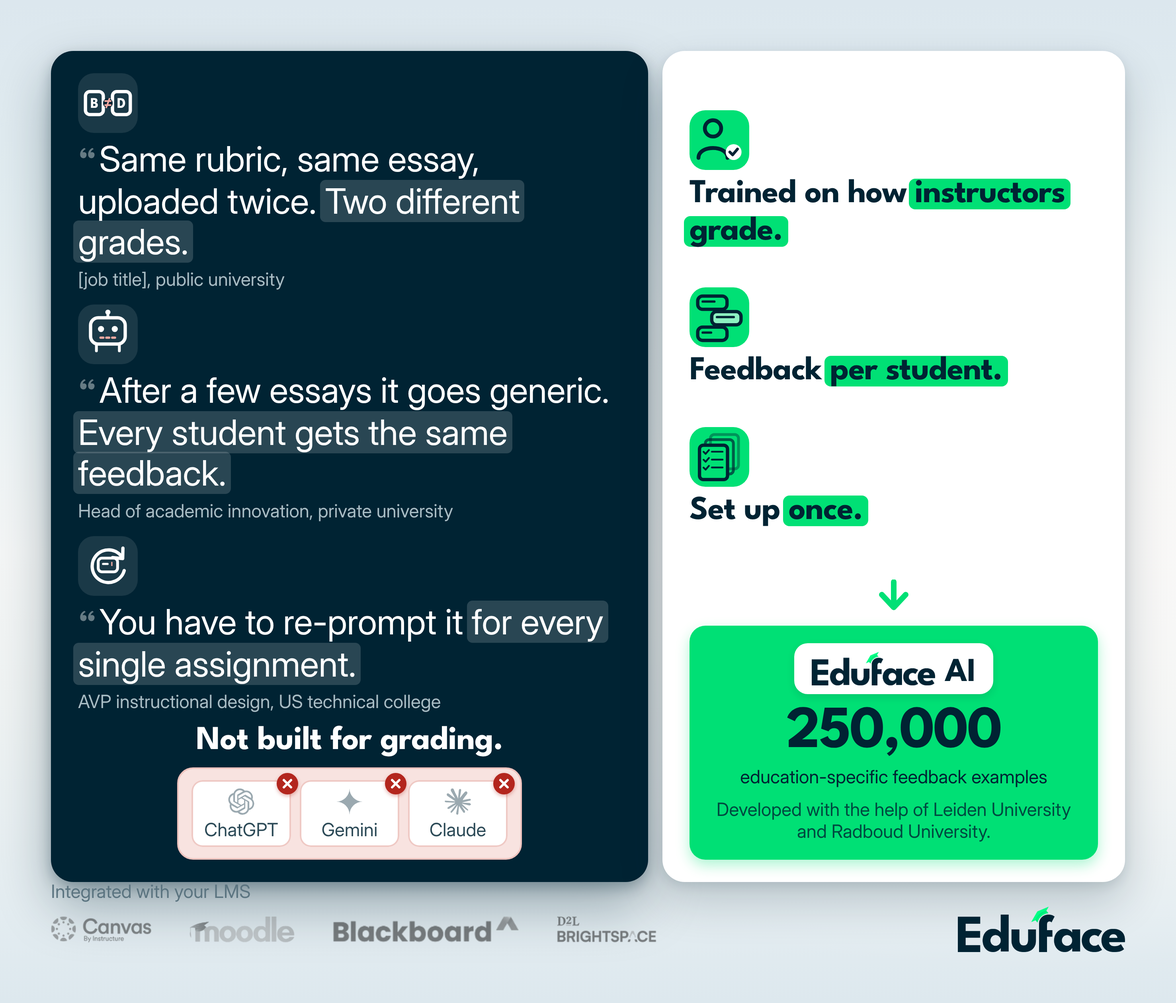
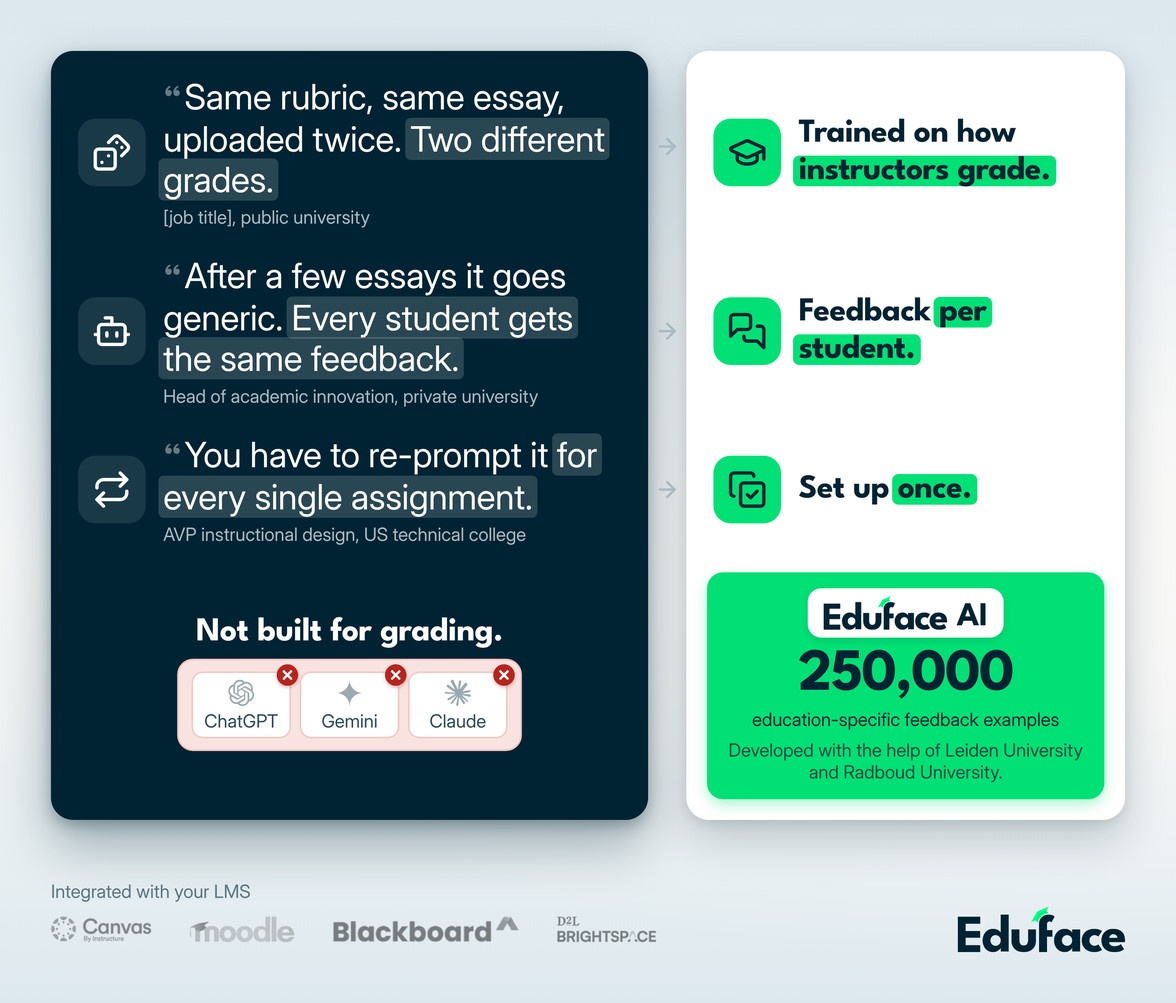
Backwall: rijen per paar (probleem links, oplossing rechts) met Lucide-iconen
Claude-Session: https://claude.ai/code/session_011t24oRcD5DFuXzKigdVhtb

diff --git a/creatives/beurs-backwall/backwall.html b/creatives/beurs-backwall/backwall.html
@@ -3,9 +3,10 @@
 <head>
 <meta charset="utf-8">
 <title>Beurs backwall</title>
+<script src="assets/icons/icons.js"></script>
 <style>
   /* Canvas: 1 px = 1 mm. Wand 2954 x 2520 mm. De kop staat op de gevel (facade.html).
-     Links donker (het probleem), rechts wit met veel groen (de oplossing).
+     Per rij een paar: links het probleem (donker), rechts de oplossing (wit, groen). Iconen: Lucide (ISC), niet zelf getekend.
      Lettersysteem: L 88 Inter (quotes) / M 84 League Spartan (koppen) / S 46 Inter (bronnen, labels) / XL 150 Spartan (alleen het getal). */
   @font-face { font-family: "League Spartan"; font-weight: 700; src: url("../../Design/Merk/fonts/LeagueSpartan-Bold.ttf"); }
   @font-face { font-family: "Inter"; font-weight: 400; src: url("../../Design/Merk/fonts/Inter-Regular.ttf"); }
@@ -19,42 +20,47 @@
       linear-gradient(180deg, #dce7ee 0%, #e2edf1 20%, #ecf3f5 40%, #f4f6f6 55%, #eff3f3 70%, #e4edf1 90%, #dde8ee 100%);
   }
   .logo { position: absolute; right: 128px; bottom: 128px; width: 420px; height: auto; }
-  .row { position: absolute; left: 128px; top: 128px; width: 2698px; display: flex; gap: 36px; align-items: stretch; }
 
-  /* links: donker. Icoon boven, quote eronder, precies zoals rechts. */
-  .q { width: 1500px; background: var(--navy); color: #fff; border-radius: 56px; padding: 56px 68px; display: flex; flex-direction: column; justify-content: space-between; gap: 30px;
-       box-shadow: 0 14px 34px rgba(0,35,51,.28), 0 60px 130px rgba(0,35,51,.34); }
-  .qs { display: flex; flex-direction: column; gap: 36px; }
-  .it { width: 150px; height: 150px; border-radius: 40px; display: flex; align-items: center; justify-content: center; margin-bottom: 14px; }
-  .q .it { background: rgba(255,255,255,.1); }
+  .g { position: absolute; left: 128px; top: 128px; width: 2698px; display: grid; grid-template-columns: 1500px 96px 1102px; grid-template-rows: auto auto auto auto; }
+  .pl, .pr { grid-row: 1 / 5; border-radius: 56px; }
+  .pl { grid-column: 1; background: var(--navy); box-shadow: 0 14px 34px rgba(0,35,51,.28), 0 60px 130px rgba(0,35,51,.34); }
+  .pr { grid-column: 3; background: #fff; box-shadow: 0 10px 28px rgba(0,35,51,.10), 0 50px 110px rgba(0,35,51,.20); }
+  .cl, .cr, .cm { z-index: 1; display: flex; align-items: center; }
+  .cl { grid-column: 1; padding: 34px 68px; gap: 44px; color: #fff; }
+  .cr { grid-column: 3; padding: 34px 68px; gap: 44px; }
+  .cm { grid-column: 2; justify-content: center; }
+  .r1 { grid-row: 1; } .r2 { grid-row: 2; } .r3 { grid-row: 3; } .r4 { grid-row: 4; }
+  .r1.cl, .r1.cr { padding-top: 64px; }
+
+  .it { flex: none; width: 170px; height: 170px; border-radius: 44px; display: flex; align-items: center; justify-content: center; }
+  .it svg { width: 100px; height: 100px; fill: none; stroke-width: 2; stroke-linecap: round; stroke-linejoin: round; }
+  .cl .it { background: rgba(255,255,255,.1); } .cl .it svg { stroke: #fff; }
+  .cr .it { background: var(--g); } .cr .it svg { stroke: var(--navy); }
+  .cm svg { width: 64px; height: 64px; fill: none; stroke: var(--i3); stroke-width: 2.4; stroke-linecap: round; stroke-linejoin: round; }
+
   .qt { font: 400 88px/1.16 Inter; color: #fff; letter-spacing: -.005em; }
   .qt .qm { font: 700 88px/1 "League Spartan"; color: rgba(255,255,255,.4); margin-right: 8px; }
   .qt mark { background: rgba(255,255,255,.16); color: inherit; padding: 0 12px; margin: 0 -12px; border-radius: 14px; -webkit-box-decoration-break: clone; box-decoration-break: clone; }
   .who { font: 400 46px/1.2 Inter; color: var(--i3); margin-top: 16px; }
+  .eh { font: 700 84px/1.12 "League Spartan"; letter-spacing: -.015em; color: var(--navy); }
+  .eh span { background: var(--g); padding: 0 14px; margin: 0 -14px; border-radius: 16px; -webkit-box-decoration-break: clone; box-decoration-break: clone; }
 
-  .tools { text-align: center; }
+  /* onderste rij: links de tools, rechts Eduface AI */
+  .cl.r4 { justify-content: center; text-align: center; padding-bottom: 64px; }
   .tools .lab { font: 700 84px/1 "League Spartan"; letter-spacing: -.01em; color: #fff; margin-bottom: 24px; }
   .redbox { display: inline-flex; gap: 22px; background: #f8e3e0; border: 4px solid #eec3be; border-radius: 40px; padding: 28px 32px; }
   .tl { position: relative; width: 250px; height: 168px; border-radius: 28px; background: #fff; box-shadow: inset 0 0 0 4px #efc9c4;
         display: flex; flex-direction: column; align-items: center; justify-content: center; gap: 14px; font: 400 46px/1 Inter; color: var(--i7); }
   .tl img { width: 66px; height: 66px; opacity: .85; }
   .x { position: absolute; top: -18px; right: -18px; width: 54px; height: 54px; border-radius: 50%; background: var(--red); box-shadow: 0 4px 10px rgba(179,38,30,.35); }
-
-  /* rechts: wit, veel groen. */
-  .e { width: 1162px; background: #fff; color: var(--navy); border-radius: 56px; padding: 56px 68px; display: flex; flex-direction: column; gap: 32px;
-       box-shadow: 0 10px 28px rgba(0,35,51,.10), 0 50px 110px rgba(0,35,51,.20); }
-  .es { flex: 1; display: flex; flex-direction: column; justify-content: space-evenly; }
-  .e .it { background: var(--g); }
-  .eh { font: 700 84px/1.12 "League Spartan"; letter-spacing: -.015em; }
-  .eh span { background: var(--g); padding: 0 14px; margin: 0 -14px; border-radius: 16px; -webkit-box-decoration-break: clone; box-decoration-break: clone; }
-  .arrow { align-self: center; }
-  .own { margin-top: auto; border-radius: 40px; background: var(--g); padding: 44px 52px; text-align: center; box-shadow: 0 14px 34px rgba(0,224,117,.32); }
-  .own .top { display: inline-flex; align-items: flex-end; justify-content: center; gap: 24px; background: #fff; border-radius: 34px; padding: 22px 44px 22px; box-shadow: 0 8px 20px rgba(0,35,51,.12); }
+  .cr.r4 { padding: 34px 52px 52px; }
+  .own { width: 100%; border-radius: 40px; background: var(--g); padding: 40px 44px; text-align: center; box-shadow: 0 14px 34px rgba(0,224,117,.32); }
+  .own .top { display: inline-flex; align-items: flex-end; justify-content: center; gap: 24px; background: #fff; border-radius: 34px; padding: 20px 40px; box-shadow: 0 8px 20px rgba(0,35,51,.12); }
   .own .top img { height: 84px; width: auto; }
-  .own .top .ai { font: 700 84px/.74 "League Spartan"; color: var(--navy); letter-spacing: -.01em; padding-bottom: 0; }
-  .own .n { font: 700 150px/1 "League Spartan"; letter-spacing: -.025em; margin-top: 22px; color: var(--navy); }
+  .own .top .ai { font: 700 84px/.74 "League Spartan"; color: var(--navy); letter-spacing: -.01em; }
+  .own .n { font: 700 150px/1 "League Spartan"; letter-spacing: -.025em; margin-top: 20px; color: var(--navy); }
   .own .l { font: 400 46px/1.2 Inter; color: var(--navy); margin-top: 8px; }
-  .own .d { font: 400 46px/1.2 Inter; color: rgba(0,35,51,.8); margin-top: 26px; }
+  .own .d { font: 400 46px/1.2 Inter; color: rgba(0,35,51,.8); margin-top: 22px; }
 
   .lms { position: absolute; left: 128px; top: 2278px; height: 114px; display: flex; align-items: center; gap: 96px; }
   .lms img { height: 66px; width: auto; filter: grayscale(1) contrast(.9); opacity: .5; }
@@ -68,49 +74,30 @@
   </div>
 
 <script>
-const N='#002333', G='#00e075', W='#fff', PINK='#f1a9a1';
+const ic=(n)=>`<svg viewBox="0 0 24 24">${ICONS[n]}</svg>`;
 const L=(f)=>`assets/logos/${f}.svg`;
-const sv=(inner,s=128)=>`<svg width="${s}" height="${s}" viewBox="0 0 400 400">${inner}</svg>`;
-
-/* ---- iconen links (wit op donker, lichtrode accenten): het probleem ---- */
-// 1. twee verschillende cijfers voor dezelfde opdracht
-const icGrades=sv(`<rect x="24" y="110" width="140" height="180" rx="34" fill="none" stroke="${W}" stroke-width="26"/><text x="94" y="236" text-anchor="middle" font-family="League Spartan" font-weight="700" font-size="116" fill="${W}">B</text>
-  <rect x="236" y="110" width="140" height="180" rx="34" fill="none" stroke="${W}" stroke-width="26"/><text x="306" y="236" text-anchor="middle" font-family="League Spartan" font-weight="700" font-size="116" fill="${W}">D</text>
-  <circle cx="200" cy="200" r="38" fill="${N}"/><path d="M178,184 H222 M178,216 H222" stroke="${PINK}" stroke-width="13" stroke-linecap="round"/><path d="M212,166 L188,234" stroke="${PINK}" stroke-width="13" stroke-linecap="round"/>`);
-// 2. robot: generiek, dezelfde feedback
-const icRobot=sv(`<line x1="200" y1="20" x2="200" y2="70" stroke="${W}" stroke-width="22" stroke-linecap="round"/><circle cx="200" cy="26" r="20" fill="${W}"/>
-  <rect x="64" y="70" width="272" height="206" rx="60" fill="none" stroke="${W}" stroke-width="26"/><circle cx="146" cy="158" r="24" fill="${W}"/><circle cx="254" cy="158" r="24" fill="${W}"/><path d="M142,226 H258" stroke="${PINK}" stroke-width="18" stroke-linecap="round" stroke-dasharray="22 24"/>
-  <path d="M110,276 V330 M290,276 V330" stroke="${W}" stroke-width="22" stroke-linecap="round"/>`);
-// 3. elke keer opnieuw promoten
-const icRepeat=sv(`<path d="M312,132 A128,128 0 1 0 328,236" fill="none" stroke="${W}" stroke-width="26" stroke-linecap="round"/><polyline points="318,60 316,142 236,134" fill="none" stroke="${W}" stroke-width="26" stroke-linecap="round" stroke-linejoin="round"/>
-  <rect x="124" y="138" width="152" height="108" rx="30" fill="none" stroke="${W}" stroke-width="22"/><rect x="154" y="176" width="52" height="16" rx="8" fill="${W}"/><rect x="226" y="168" width="10" height="32" fill="${PINK}"/>`);
-
-/* ---- iconen rechts (navy op groen): de oplossing ---- */
-const icTeacher=sv(`<circle cx="150" cy="108" r="64" fill="none" stroke="${N}" stroke-width="30"/><path d="M36,340 C36,236 264,236 264,340" fill="none" stroke="${N}" stroke-width="30" stroke-linecap="round"/><circle cx="312" cy="294" r="62" fill="${W}"/><polyline points="282,294 304,316 342,270" fill="none" stroke="${N}" stroke-width="22" stroke-linecap="round" stroke-linejoin="round"/>`);
-const icBubbles=sv(`<rect x="30" y="34" width="230" height="104" rx="38" fill="none" stroke="${N}" stroke-width="26"/><rect x="60" y="68" width="110" height="18" rx="9" fill="${N}"/><rect x="140" y="156" width="230" height="104" rx="38" fill="rgba(255,255,255,.55)" stroke="${N}" stroke-width="26"/><rect x="172" y="190" width="150" height="18" rx="9" fill="${N}"/><rect x="30" y="278" width="230" height="104" rx="38" fill="none" stroke="${N}" stroke-width="26"/><rect x="60" y="312" width="84" height="18" rx="9" fill="${N}"/>`);
-const icSheets=sv(`<rect x="130" y="24" width="220" height="270" rx="30" fill="none" stroke="${N}" stroke-width="22" opacity=".4"/><rect x="90" y="64" width="220" height="270" rx="30" fill="none" stroke="${N}" stroke-width="22" opacity=".7"/><rect x="44" y="108" width="220" height="270" rx="30" fill="${G}" stroke="${N}" stroke-width="26"/>${[160,222,284].map(y=>`<polyline points="76,${y} 92,${y+16} 118,${y-14}" fill="none" stroke="${N}" stroke-width="14" stroke-linecap="round" stroke-linejoin="round"/><rect x="134" y="${y-8}" width="98" height="14" rx="7" fill="${N}"/>`).join('')}`);
-
-/* ---- links ---- */
-const q=(ic,t,w)=>`<div class="qb"><div class="it">${ic}</div><div class="qt"><span class="qm">“</span>${t}</div>${w?`<div class="who">${w}</div>`:''}</div>`;
 const R0='[job title], public university', R1='Head of academic innovation, private university', R2='AVP instructional design, US technical college';
+/* Quotes: formulering van Dante, 25-11-2026. Bron van quote 2 en 3 staat in de case study; herschreven zinnen nog niet aan die personen voorgelegd (V15). Quote 1: functietitel onbekend (V17). */
+const Q=[{ic:'dices',t:'Same rubric, same essay, uploaded twice. <mark>Two different grades.</mark>',w:R0},
+         {ic:'bot',t:'After a few essays it goes generic. <mark>Every student gets the same feedback.</mark>',w:R1},
+         {ic:'repeat',t:'You have to re-prompt it <mark>for every single assignment.</mark>',w:R2}];
+const A=[{ic:'graduation-cap',h:'Trained on how <span>instructors grade.</span>'},
+         {ic:'messages-square',h:'Feedback <span>per student.</span>'},
+         {ic:'copy-check',h:'Set up <span>once.</span>'}];
+let h='<div class="pl"></div><div class="pr"></div>';
+Q.forEach((q,i)=>{
+  h+=`<div class="cl r${i+1}"><div class="it">${ic(q.ic)}</div><div><div class="qt"><span class="qm">“</span>${q.t}</div><div class="who">${q.w}</div></div></div>`;
+  h+=`<div class="cm r${i+1}">${ic('arrow-right')}</div>`;
+  h+=`<div class="cr r${i+1}"><div class="it">${ic(A[i].ic)}</div><div class="eh">${A[i].h}</div></div>`;
+});
 const x=`<div class="x"><svg width="54" height="54" viewBox="0 0 54 54"><path d="M18,18 L36,36 M36,18 L18,36" stroke="#fff" stroke-width="6" stroke-linecap="round"/></svg></div>`;
 const tool=(img,name)=>`<div class="tl"><img src="${L(img)}">${name}${x}</div>`;
-const left=`<div class="q"><div class="qs">`+
-  q(icGrades,'Same rubric, same essay, uploaded twice. <mark>Two different grades.</mark>',R0)+
-  q(icRobot,'After a few essays it goes generic. <mark>Every student gets the same feedback.</mark>',R1)+
-  q(icRepeat,'You have to re-prompt it <mark>for every single assignment.</mark>',R2)+
-  `</div><div class="tools"><div class="lab">Not built for grading.</div><div class="redbox">${tool('openai','ChatGPT')}${tool('googlegemini','Gemini')}${tool('claude','Claude')}</div></div></div>`;
-
-/* ---- rechts ---- */
-const EB=[{ic:icTeacher,h:'Trained on how <span>instructors grade.</span>'},{ic:icBubbles,h:'Feedback <span>per student.</span>'},{ic:icSheets,h:'Set up <span>once.</span>'}];
-const arrow=`<svg class="arrow" width="96" height="84" viewBox="0 0 96 84"><path d="M48,6 V62" stroke="${G}" stroke-width="14" stroke-linecap="round"/><polyline points="18,38 48,70 78,38" fill="none" stroke="${G}" stroke-width="14" stroke-linecap="round" stroke-linejoin="round"/></svg>`;
-const right=`<div class="e"><div class="es">`+EB.map(r=>`<div class="eb"><div class="it">${r.ic}</div><div class="eh">${r.h}</div></div>`).join('')+`</div>${arrow}
-  <div class="own"><div class="top"><img src="../../Design/Merk/logos/logo_navy.png"><div class="ai">AI</div></div>
+h+=`<div class="cl r4"><div class="tools"><div class="lab">Not built for grading.</div><div class="redbox">${tool('openai','ChatGPT')}${tool('googlegemini','Gemini')}${tool('claude','Claude')}</div></div></div>`;
+h+=`<div class="cr r4"><div class="own"><div class="top"><img src="../../Design/Merk/logos/logo_navy.png"><div class="ai">AI</div></div>
   <div class="n">250,000</div><div class="l">education-specific feedback examples</div>
   <div class="d">Developed with the help of Leiden University and Radboud University.</div></div></div>`;
-
 const lms=`<div class="lms"><div class="lab">Integrated with your LMS</div><img src="assets/logos/lms-canvas.png"><img src="assets/logos/lms-moodle.png"><img src="assets/logos/lms-blackboard.png"><img src="assets/logos/lms-brightspace.png"></div>`;
-document.getElementById('layer-content').innerHTML = `<div class="row">${left}${right}</div>${lms}`;
+document.getElementById('layer-content').innerHTML=`<div class="g">${h}</div>${lms}`;
 </script>
 </body>
 </html>

diff --git a/creatives/beurs-backwall/backwall-donker-links-2026-11-25.html b/creatives/beurs-backwall/backwall-donker-links-2026-11-25.html
@@ -1,0 +1,116 @@
+<!doctype html>
+<html lang="en">
+<head>
+<meta charset="utf-8">
+<title>Beurs backwall</title>
+<style>
+  /* Canvas: 1 px = 1 mm. Wand 2954 x 2520 mm. De kop staat op de gevel (facade.html).
+     Links donker (het probleem), rechts wit met veel groen (de oplossing).
+     Lettersysteem: L 88 Inter (quotes) / M 84 League Spartan (koppen) / S 46 Inter (bronnen, labels) / XL 150 Spartan (alleen het getal). */
+  @font-face { font-family: "League Spartan"; font-weight: 700; src: url("../../Design/Merk/fonts/LeagueSpartan-Bold.ttf"); }
+  @font-face { font-family: "Inter"; font-weight: 400; src: url("../../Design/Merk/fonts/Inter-Regular.ttf"); }
+  :root { --w: 2954px; --h: 2520px; --navy: #002333; --gd: #007b54; --g: #00e075; --i7: #2c4a57; --i5: #5b7480; --i3: #a9bcc4; --i2: #cdd9de; --i50: #f3f7f8; --red: #b3261e; }
+  * { margin: 0; box-sizing: border-box; }
+  html, body { width: var(--w); height: var(--h); }
+  .wall {
+    position: relative; width: var(--w); height: var(--h); overflow: hidden; color: var(--navy);
+    background:
+      radial-gradient(ellipse 80% 45% at 90% 52%, #f9f8f7 0%, rgba(249,248,247,0) 100%),
+      linear-gradient(180deg, #dce7ee 0%, #e2edf1 20%, #ecf3f5 40%, #f4f6f6 55%, #eff3f3 70%, #e4edf1 90%, #dde8ee 100%);
+  }
+  .logo { position: absolute; right: 128px; bottom: 128px; width: 420px; height: auto; }
+  .row { position: absolute; left: 128px; top: 128px; width: 2698px; display: flex; gap: 36px; align-items: stretch; }
+
+  /* links: donker. Icoon boven, quote eronder, precies zoals rechts. */
+  .q { width: 1500px; background: var(--navy); color: #fff; border-radius: 56px; padding: 56px 68px; display: flex; flex-direction: column; justify-content: space-between; gap: 30px;
+       box-shadow: 0 14px 34px rgba(0,35,51,.28), 0 60px 130px rgba(0,35,51,.34); }
+  .qs { display: flex; flex-direction: column; gap: 36px; }
+  .it { width: 150px; height: 150px; border-radius: 40px; display: flex; align-items: center; justify-content: center; margin-bottom: 14px; }
+  .q .it { background: rgba(255,255,255,.1); }
+  .qt { font: 400 88px/1.16 Inter; color: #fff; letter-spacing: -.005em; }
+  .qt .qm { font: 700 88px/1 "League Spartan"; color: rgba(255,255,255,.4); margin-right: 8px; }
+  .qt mark { background: rgba(255,255,255,.16); color: inherit; padding: 0 12px; margin: 0 -12px; border-radius: 14px; -webkit-box-decoration-break: clone; box-decoration-break: clone; }
+  .who { font: 400 46px/1.2 Inter; color: var(--i3); margin-top: 16px; }
+
+  .tools { text-align: center; }
+  .tools .lab { font: 700 84px/1 "League Spartan"; letter-spacing: -.01em; color: #fff; margin-bottom: 24px; }
+  .redbox { display: inline-flex; gap: 22px; background: #f8e3e0; border: 4px solid #eec3be; border-radius: 40px; padding: 28px 32px; }
+  .tl { position: relative; width: 250px; height: 168px; border-radius: 28px; background: #fff; box-shadow: inset 0 0 0 4px #efc9c4;
+        display: flex; flex-direction: column; align-items: center; justify-content: center; gap: 14px; font: 400 46px/1 Inter; color: var(--i7); }
+  .tl img { width: 66px; height: 66px; opacity: .85; }
+  .x { position: absolute; top: -18px; right: -18px; width: 54px; height: 54px; border-radius: 50%; background: var(--red); box-shadow: 0 4px 10px rgba(179,38,30,.35); }
+
+  /* rechts: wit, veel groen. */
+  .e { width: 1162px; background: #fff; color: var(--navy); border-radius: 56px; padding: 56px 68px; display: flex; flex-direction: column; gap: 32px;
+       box-shadow: 0 10px 28px rgba(0,35,51,.10), 0 50px 110px rgba(0,35,51,.20); }
+  .es { flex: 1; display: flex; flex-direction: column; justify-content: space-evenly; }
+  .e .it { background: var(--g); }
+  .eh { font: 700 84px/1.12 "League Spartan"; letter-spacing: -.015em; }
+  .eh span { background: var(--g); padding: 0 14px; margin: 0 -14px; border-radius: 16px; -webkit-box-decoration-break: clone; box-decoration-break: clone; }
+  .arrow { align-self: center; }
+  .own { margin-top: auto; border-radius: 40px; background: var(--g); padding: 44px 52px; text-align: center; box-shadow: 0 14px 34px rgba(0,224,117,.32); }
+  .own .top { display: inline-flex; align-items: flex-end; justify-content: center; gap: 24px; background: #fff; border-radius: 34px; padding: 22px 44px 22px; box-shadow: 0 8px 20px rgba(0,35,51,.12); }
+  .own .top img { height: 84px; width: auto; }
+  .own .top .ai { font: 700 84px/.74 "League Spartan"; color: var(--navy); letter-spacing: -.01em; padding-bottom: 0; }
+  .own .n { font: 700 150px/1 "League Spartan"; letter-spacing: -.025em; margin-top: 22px; color: var(--navy); }
+  .own .l { font: 400 46px/1.2 Inter; color: var(--navy); margin-top: 8px; }
+  .own .d { font: 400 46px/1.2 Inter; color: rgba(0,35,51,.8); margin-top: 26px; }
+
+  .lms { position: absolute; left: 128px; top: 2278px; height: 114px; display: flex; align-items: center; gap: 96px; }
+  .lms img { height: 66px; width: auto; filter: grayscale(1) contrast(.9); opacity: .5; }
+  .lms .lab { position: absolute; left: 0; top: -62px; font: 400 46px/1 Inter; color: var(--i5); white-space: nowrap; }
+</style>
+</head>
+<body>
+  <div class="wall" id="wall">
+    <div id="layer-content"></div>
+    <img class="logo" src="../../Design/Merk/logos/logo_navy.png" alt="Eduface">
+  </div>
+
+<script>
+const N='#002333', G='#00e075', W='#fff', PINK='#f1a9a1';
+const L=(f)=>`assets/logos/${f}.svg`;
+const sv=(inner,s=128)=>`<svg width="${s}" height="${s}" viewBox="0 0 400 400">${inner}</svg>`;
+
+/* ---- iconen links (wit op donker, lichtrode accenten): het probleem ---- */
+// 1. twee verschillende cijfers voor dezelfde opdracht
+const icGrades=sv(`<rect x="24" y="110" width="140" height="180" rx="34" fill="none" stroke="${W}" stroke-width="26"/><text x="94" y="236" text-anchor="middle" font-family="League Spartan" font-weight="700" font-size="116" fill="${W}">B</text>
+  <rect x="236" y="110" width="140" height="180" rx="34" fill="none" stroke="${W}" stroke-width="26"/><text x="306" y="236" text-anchor="middle" font-family="League Spartan" font-weight="700" font-size="116" fill="${W}">D</text>
+  <circle cx="200" cy="200" r="38" fill="${N}"/><path d="M178,184 H222 M178,216 H222" stroke="${PINK}" stroke-width="13" stroke-linecap="round"/><path d="M212,166 L188,234" stroke="${PINK}" stroke-width="13" stroke-linecap="round"/>`);
+// 2. robot: generiek, dezelfde feedback
+const icRobot=sv(`<line x1="200" y1="20" x2="200" y2="70" stroke="${W}" stroke-width="22" stroke-linecap="round"/><circle cx="200" cy="26" r="20" fill="${W}"/>
+  <rect x="64" y="70" width="272" height="206" rx="60" fill="none" stroke="${W}" stroke-width="26"/><circle cx="146" cy="158" r="24" fill="${W}"/><circle cx="254" cy="158" r="24" fill="${W}"/><path d="M142,226 H258" stroke="${PINK}" stroke-width="18" stroke-linecap="round" stroke-dasharray="22 24"/>
+  <path d="M110,276 V330 M290,276 V330" stroke="${W}" stroke-width="22" stroke-linecap="round"/>`);
+// 3. elke keer opnieuw promoten
+const icRepeat=sv(`<path d="M312,132 A128,128 0 1 0 328,236" fill="none" stroke="${W}" stroke-width="26" stroke-linecap="round"/><polyline points="318,60 316,142 236,134" fill="none" stroke="${W}" stroke-width="26" stroke-linecap="round" stroke-linejoin="round"/>
+  <rect x="124" y="138" width="152" height="108" rx="30" fill="none" stroke="${W}" stroke-width="22"/><rect x="154" y="176" width="52" height="16" rx="8" fill="${W}"/><rect x="226" y="168" width="10" height="32" fill="${PINK}"/>`);
+
+/* ---- iconen rechts (navy op groen): de oplossing ---- */
+const icTeacher=sv(`<circle cx="150" cy="108" r="64" fill="none" stroke="${N}" stroke-width="30"/><path d="M36,340 C36,236 264,236 264,340" fill="none" stroke="${N}" stroke-width="30" stroke-linecap="round"/><circle cx="312" cy="294" r="62" fill="${W}"/><polyline points="282,294 304,316 342,270" fill="none" stroke="${N}" stroke-width="22" stroke-linecap="round" stroke-linejoin="round"/>`);
+const icBubbles=sv(`<rect x="30" y="34" width="230" height="104" rx="38" fill="none" stroke="${N}" stroke-width="26"/><rect x="60" y="68" width="110" height="18" rx="9" fill="${N}"/><rect x="140" y="156" width="230" height="104" rx="38" fill="rgba(255,255,255,.55)" stroke="${N}" stroke-width="26"/><rect x="172" y="190" width="150" height="18" rx="9" fill="${N}"/><rect x="30" y="278" width="230" height="104" rx="38" fill="none" stroke="${N}" stroke-width="26"/><rect x="60" y="312" width="84" height="18" rx="9" fill="${N}"/>`);
+const icSheets=sv(`<rect x="130" y="24" width="220" height="270" rx="30" fill="none" stroke="${N}" stroke-width="22" opacity=".4"/><rect x="90" y="64" width="220" height="270" rx="30" fill="none" stroke="${N}" stroke-width="22" opacity=".7"/><rect x="44" y="108" width="220" height="270" rx="30" fill="${G}" stroke="${N}" stroke-width="26"/>${[160,222,284].map(y=>`<polyline points="76,${y} 92,${y+16} 118,${y-14}" fill="none" stroke="${N}" stroke-width="14" stroke-linecap="round" stroke-linejoin="round"/><rect x="134" y="${y-8}" width="98" height="14" rx="7" fill="${N}"/>`).join('')}`);
+
+/* ---- links ---- */
+const q=(ic,t,w)=>`<div class="qb"><div class="it">${ic}</div><div class="qt"><span class="qm">“</span>${t}</div>${w?`<div class="who">${w}</div>`:''}</div>`;
+const R0='[job title], public university', R1='Head of academic innovation, private university', R2='AVP instructional design, US technical college';
+const x=`<div class="x"><svg width="54" height="54" viewBox="0 0 54 54"><path d="M18,18 L36,36 M36,18 L18,36" stroke="#fff" stroke-width="6" stroke-linecap="round"/></svg></div>`;
+const tool=(img,name)=>`<div class="tl"><img src="${L(img)}">${name}${x}</div>`;
+const left=`<div class="q"><div class="qs">`+
+  q(icGrades,'Same rubric, same essay, uploaded twice. <mark>Two different grades.</mark>',R0)+
+  q(icRobot,'After a few essays it goes generic. <mark>Every student gets the same feedback.</mark>',R1)+
+  q(icRepeat,'You have to re-prompt it <mark>for every single assignment.</mark>',R2)+
+  `</div><div class="tools"><div class="lab">Not built for grading.</div><div class="redbox">${tool('openai','ChatGPT')}${tool('googlegemini','Gemini')}${tool('claude','Claude')}</div></div></div>`;
+
+/* ---- rechts ---- */
+const EB=[{ic:icTeacher,h:'Trained on how <span>instructors grade.</span>'},{ic:icBubbles,h:'Feedback <span>per student.</span>'},{ic:icSheets,h:'Set up <span>once.</span>'}];
+const arrow=`<svg class="arrow" width="96" height="84" viewBox="0 0 96 84"><path d="M48,6 V62" stroke="${G}" stroke-width="14" stroke-linecap="round"/><polyline points="18,38 48,70 78,38" fill="none" stroke="${G}" stroke-width="14" stroke-linecap="round" stroke-linejoin="round"/></svg>`;
+const right=`<div class="e"><div class="es">`+EB.map(r=>`<div class="eb"><div class="it">${r.ic}</div><div class="eh">${r.h}</div></div>`).join('')+`</div>${arrow}
+  <div class="own"><div class="top"><img src="../../Design/Merk/logos/logo_navy.png"><div class="ai">AI</div></div>
+  <div class="n">250,000</div><div class="l">education-specific feedback examples</div>
+  <div class="d">Developed with the help of Leiden University and Radboud University.</div></div></div>`;
+
+const lms=`<div class="lms"><div class="lab">Integrated with your LMS</div><img src="assets/logos/lms-canvas.png"><img src="assets/logos/lms-moodle.png"><img src="assets/logos/lms-blackboard.png"><img src="assets/logos/lms-brightspace.png"></div>`;
+document.getElementById('layer-content').innerHTML = `<div class="row">${left}${right}</div>${lms}`;
+</script>
+</body>
+</html>

diff --git a/creatives/beurs-backwall/assets/icons/icons.js b/creatives/beurs-backwall/assets/icons/icons.js
@@ -1,0 +1,1 @@
+window.ICONS={"user-check": "<path d=\"M16 21v-2a4 4 0 0 0-4-4H6a4 4 0 0 0-4 4v2\" /> <circle cx=\"9\" cy=\"7\" r=\"4\" /> <polyline points=\"16 11 18 13 22 9\" />", "dices": "<rect width=\"12\" height=\"12\" x=\"2\" y=\"10\" rx=\"2\" ry=\"2\" /> <path d=\"m17.92 14 3.5-3.5a2.24 2.24 0 0 0 0-3l-5-4.92a2.24 2.24 0 0 0-3 0L10 6\" /> <path d=\"M6 18h.01\" /> <path d=\"M10 14h.01\" /> <path d=\"M15 6h.01\" /> <path d=\"M18 9h.01\" />", "messages-square": "<path d=\"M14 9a2 2 0 0 1-2 2H6l-4 4V4a2 2 0 0 1 2-2h8a2 2 0 0 1 2 2z\" /> <path d=\"M18 9h2a2 2 0 0 1 2 2v11l-4-4h-6a2 2 0 0 1-2-2v-1\" />", "copy-check": "<path d=\"m12 15 2 2 4-4\" /> <rect width=\"14\" height=\"14\" x=\"8\" y=\"8\" rx=\"2\" ry=\"2\" /> <path d=\"M4 16c-1.1 0-2-.9-2-2V4c0-1.1.9-2 2-2h10c1.1 0 2 .9 2 2\" />", "repeat": "<path d=\"m17 2 4 4-4 4\" /> <path d=\"M3 11v-1a4 4 0 0 1 4-4h14\" /> <path d=\"m7 22-4-4 4-4\" /> <path d=\"M21 13v1a4 4 0 0 1-4 4H3\" />", "bot": "<path d=\"M12 8V4H8\" /> <rect width=\"16\" height=\"12\" x=\"4\" y=\"8\" rx=\"2\" /> <path d=\"M2 14h2\" /> <path d=\"M20 14h2\" /> <path d=\"M15 13v2\" /> <path d=\"M9 13v2\" />", "arrow-right": "<path d=\"M5 12h14\" /> <path d=\"m12 5 7 7-7 7\" />", "shuffle": "<path d=\"m18 14 4 4-4 4\" /> <path d=\"m18 2 4 4-4 4\" /> <path d=\"M2 18h1.973a4 4 0 0 0 3.3-1.7l5.454-8.6a4 4 0 0 1 3.3-1.7H22\" /> <path d=\"M2 6h1.972a4 4 0 0 1 3.6 2.2\" /> <path d=\"M22 18h-6.041a4 4 0 0 1-3.3-1.8l-.359-.45\" />", "graduation-cap": "<path d=\"M21.42 10.922a1 1 0 0 0-.019-1.838L12.83 5.18a2 2 0 0 0-1.66 0L2.6 9.08a1 1 0 0 0 0 1.832l8.57 3.908a2 2 0 0 0 1.66 0z\" /> <path d=\"M22 10v6\" /> <path d=\"M6 12.5V16a6 3 0 0 0 12 0v-3.5\" />"};
